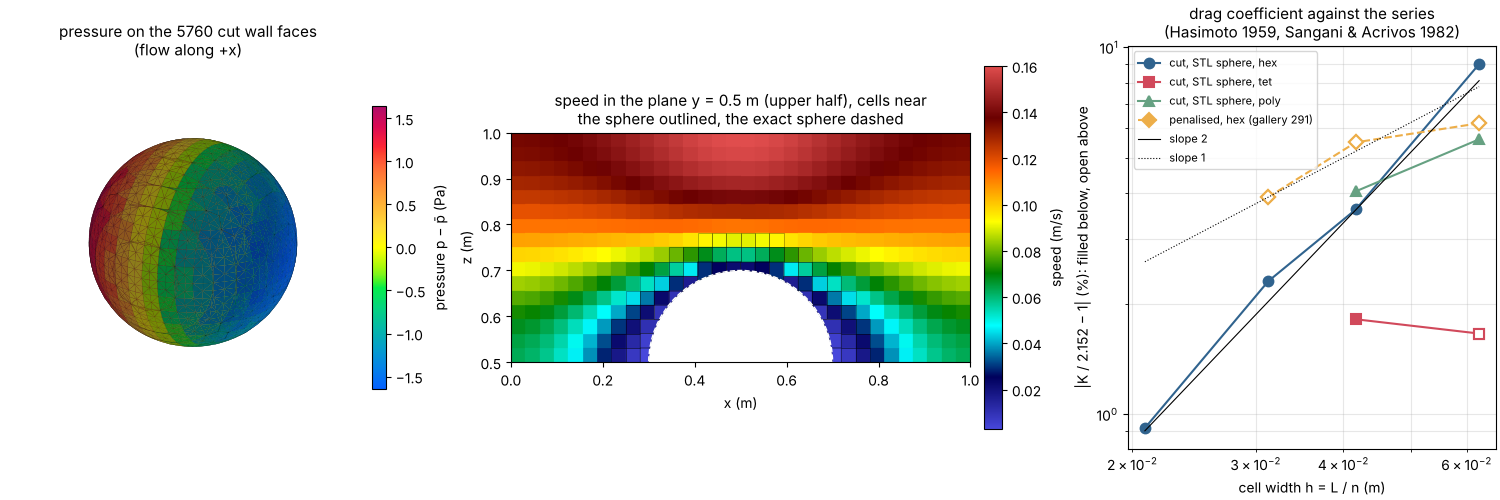
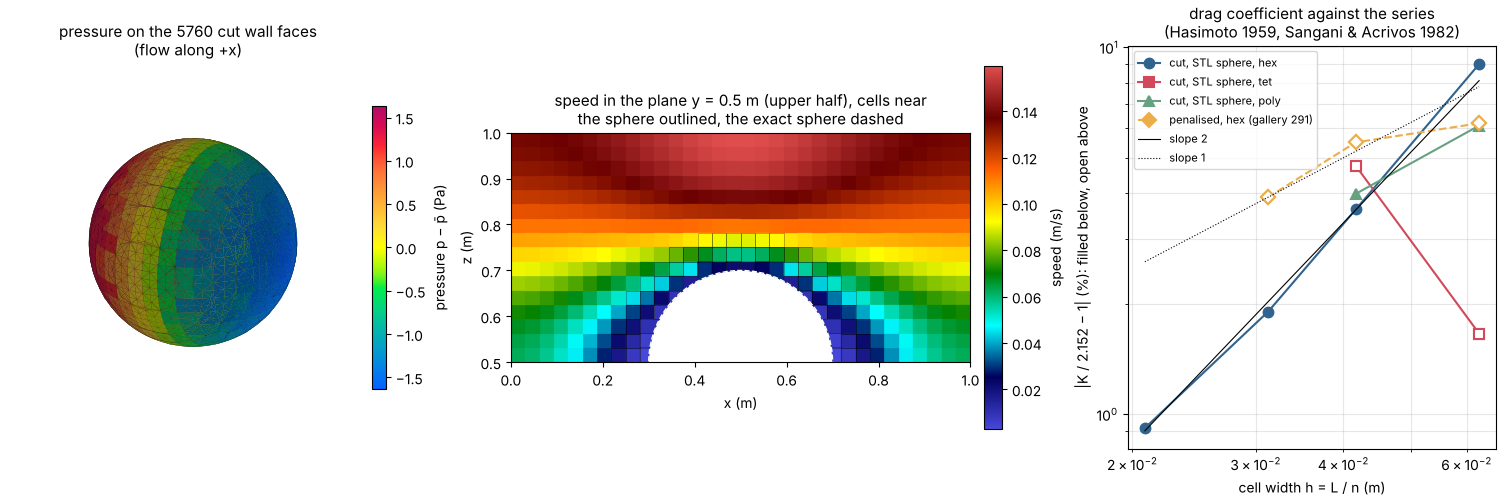
Immersed stage 2: tet sphere array results and figure after the shared faces
Claude-Session: https://claude.ai/code/session_012imjwpVwN4CkvdixLAr796

diff --git a/docs/gallery/immersed.md b/docs/gallery/immersed.md
@@ -478,7 +478,7 @@ Recipe: [315](../recipes/immersed.md#cut-moments).
 <a id="stl-cut"></a>
 ## 322. STL bodies cut out of a mesh: sharp edges, face points and the Stokes sphere array
 
-<img src="../figures/gallery/immersed_stl_sphere_array.png" alt="Three panels of Stokes flow through a simple cubic array of spheres, the sphere a triangle surface cut out of a hexahedral mesh of 32 cubed cells. Left: the cut sphere wall seen from the side, coloured by the pressure, red on the upstream side, blue on the downstream side, the fan triangles of the cut wall faces visible. Middle: the speed in the plane through the sphere's centre, upper half, slow (blue) next to the sphere and fastest (red) midway between the spheres, the square cells meeting the dashed exact circle. Right: log-log chart of the error of the drag coefficient against the series of Hasimoto and Sangani and Acrivos over the cell width: the cut sphere on hexahedra falls along the slope-2 line from 9 to 0.9 percent, tetrahedra and polyhedra lie between 1.7 and 5.6 percent, the penalised sphere stays between 3.9 and 6.2 percent along slope 1." width="800" height="267">
+<img src="../figures/gallery/immersed_stl_sphere_array.png" alt="Three panels of Stokes flow through a simple cubic array of spheres, the sphere a triangle surface cut out of a hexahedral mesh of 32 cubed cells. Left: the cut sphere wall seen from the side, coloured by the pressure, red on the upstream side, blue on the downstream side, the fan triangles of the cut wall faces visible. Middle: the speed in the plane through the sphere's centre, upper half, slow (blue) next to the sphere and fastest (red) midway between the spheres, the square cells meeting the dashed exact circle. Right: log-log chart of the error of the drag coefficient against the series of Hasimoto and Sangani and Acrivos over the cell width: the cut sphere on hexahedra falls along the slope-2 line from 9 to 0.9 percent, tetrahedra rise from 1.7 to 4.8 percent, polyhedra fall from 6.1 to 4.0 percent, the penalised sphere stays between 3.9 and 6.2 percent along slope 1." width="800" height="267">
 
 `[[immersed.body]] shape = "stl"` reads a triangle surface (ASCII or binary
 STL, `file` relative to the case file, `scale` for its unit) and makes it a
@@ -591,7 +591,7 @@ Hasimoto (1959) and Sangani & Acrivos (1982), 2.152:
 | hex 32³ (the case file, 256 iterations, 51 s) | 31 752 | 2.111 | −1.9 % | 1.004 |
 | hex 48³ | 107 144 | 2.132 | −0.9 % | 0.998 |
 | tet 16³ | 23 856 | 2.188 | +1.7 % | 1.047 |
-| tet 24³ | 80 340 | 2.113 | −1.8 % | 0.949 |
+| tet 24³ | 80 340 | 2.254 | +4.8 % | 0.987 |
 | poly 16³ (17³ polyhedra) | 4 820 | 2.021 | −6.1 % | 1.027 |
 | poly 24³ (25³ polyhedra) | 15 212 | 2.066 | −4.0 % | 1.011 |
 | hex 32³, primitive sphere cut | 31 752 | 2.108 | −2.0 % | 1.004 |
@@ -624,9 +624,10 @@ The merge threshold 0.4 instead of 0.3 gives −2.3 % on 32³ (24³ and the
 **What is not here yet.** The fallback cuts the whole mesh again per round.
 On polyhedral meshes the faces are not planar, so the fan of a clipped face
 is not that of the input face and the face apertures do not converge (the
-cell-by-cell volumes now do). On tetrahedra the wall carries G L³ only to 5 % (0.949 on
-24³) and the drag error changes sign between 16³ and 24³: the cut cells of
-tetrahedra need a closer look (features.toml). A feature thinner than a cell can vanish between the
+cell-by-cell volumes now do). On tetrahedra the drag error grows from +1.7 %
+on 16³ to +4.8 % on 24³ and the wall carries G L³ to 5 % on 16³ (1.3 % on
+24³; the −1.8 % of #322 on 24³ ran with the cell-quality remediation on): the
+cut cells of tetrahedra need a closer look (features.toml). A feature thinner than a cell can vanish between the
 nodes. Wall functions with the exact first-cell distance (2c), conjugate
 heat transfer through cut cells (2d), named surface patches (2e) and the
 near-body refinement (2f) follow. One rank only.
